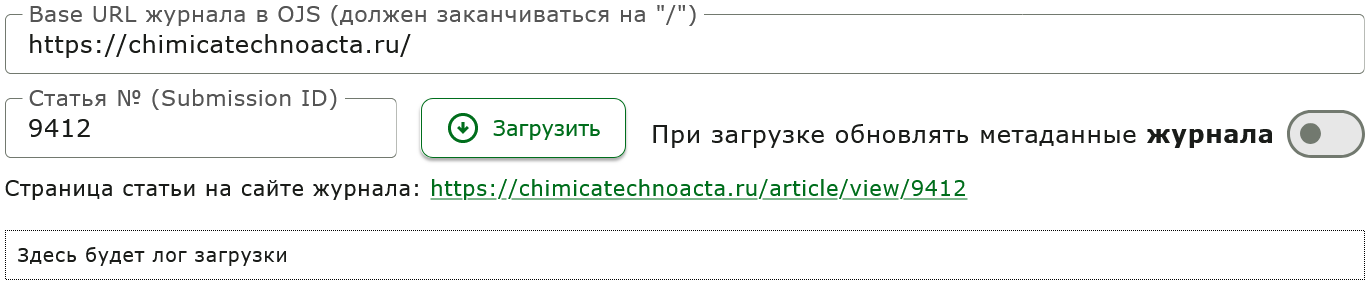
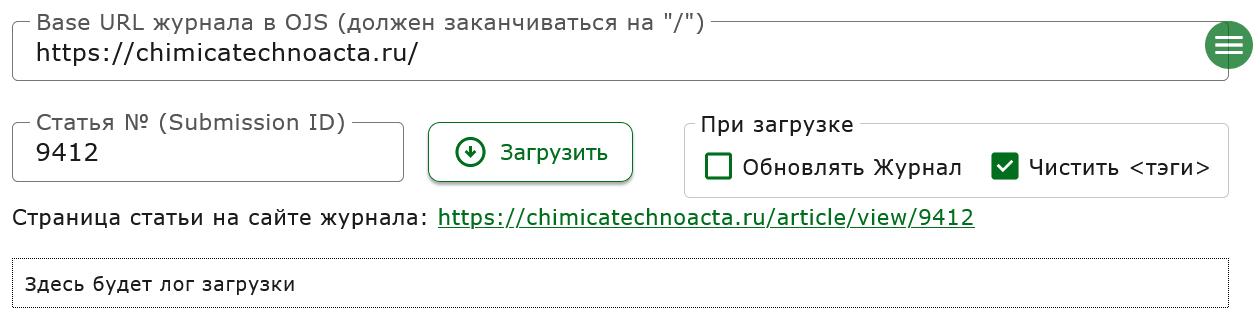
update help

diff --git a/src/components/HelpForm.md b/src/components/HelpForm.md
@@ -4,33 +4,29 @@
 
 Два крупных раздела формы - сведения о журнале и о статье. Информация о журнале сохраняется в браузере, о статье - нет (теряется при перезагрузке страницы). Для сохранения промежуточных результатов в том же меню, где кнопка вызова этой справочной страницы, есть возможность скачать и загрузить обратно введенную информацию о журнале и статье одновременно в формате JATS XML. Пока полностью поддерживаются только файлы, сгенерированные этим приложением - JATS очень лояльный формат, и можно встретить самые... разнообразные варианты.
 
-Форма в целом почти повторяет ту, которая используется в ИС Метафора, с некоторыми OJS-специфичными оптимизациями. Звездочками в форме отмечены поля, которые отмечены в ИС Метафора и которые ее разработчики считают обязательными.
+Форма в целом почти повторяет ту, которая используется в ИС Метафора, с некоторыми OJS-специфичными оптимизациями. Единственное, что здесь сильно не так - аффилиации. Почему? Ужасно неудобно работать с раздельными аффилиациями в текстовых полях для каждого автора - легко наплодить дубликатов аффилиаций и сложно это потом разгребать.
+
+Звездочками в форме отмечены поля, которые отмечены в ИС Метафора и которые ее разработчики считают обязательными.
 
 Пустые поля в форме слегка подсвечиваются. Это сделано только чтобы было лучше видно, что еще не заполнено.
 
 #### На что обращать внимание
 
-Для оптимизации производительности обновление данных происходит не мгновенно при вводе каждой буквы, а при обновлении текстового поля целиком. Это происходит когда поле теряет фокус (например, по клику в любое место страницы вне поля), а в случае однострочных полей еще и по нажатию Enter. Например, если вы поменяли аффилиацию одному из авторов и хотите увидеть изменения в XML, нажмите Enter или кликните куда-то вне поля с аффилиацией, чтобы изменения подхватились.
+Для оптимизации производительности обновление данных происходит не мгновенно при вводе каждой буквы, а при обновлении текстового поля целиком. Это происходит когда поле теряет фокус (например, по клику в любое место страницы вне поля), а в случае однострочных полей еще и по нажатию Enter. Например, если вы поменяли аффилиацию одному из авторов и хотите увидеть изменения в XML или метаданных, нажмите Enter или кликните куда-то вне поля с аффилиацией, чтобы изменения подхватились.
 
-**Название и аннотация** в зависимости от того откуда загружены или скопированы могут содержать html-тэги. Автоматически они не убираются по разным причинам, в частности, чтобы вы видели, в каком виде у вас хранится информация. Вам их нужно убирать вручную, кликнув на соответствующую кнопку.
+**Название и аннотация** в зависимости от того откуда загружены или скопированы могут содержать html-тэги. Если они автоматически не убираются, вам их нужно убирать вручную, кликнув на соответствующую кнопку.
 
 **Аннотация** в большинстве случаев должна состоять из одного абзаца (с точки зрения компьютера - из одной длинной строки). Чтобы контролировать этот момент, под полем аннотации есть счетчик строк. Так же как и значение поля, он обновляется не мгновенно, а только когда поле теряет фокус.
 
 **Ключевые слова** в OJS некоторых версий разделяются точкой с запятой (если они *корректно* заполнены), поэтому и здесь тоже. Для любителей запятых есть кнопка для автозамены.
 
-**Аффилиации авторов** в OJS забиваются в одну строчку в вольном формате. Почти никто их нормально не заполняет. А для JATS нужно разделять аффилиации на отдельные в случае, если автор аффилирован с несколькими организациями. Поэтому нужно делать так:
-
-- если аффилиаций несколько, они должны разделяться точкой с запятой;
-- если используется два языка, количество аффилиаций и порядок в котором они перечислены должны быть идентичны;
-- если у нескольких авторов одна аффилиация, она должна быть идентично записана для всех. Так как приложение сравнивает строки на буквальное совпадение, с его точки зрения "`ФГАОУ ИГОГО Уральский университет`", "`Уральский федеральный университет`" и "`Уральский  Федеральный Университет.`" будут тремя разными аффилиациями. Это я к тому, что *в рамках одной статьи идентичные аффилиации разных авторов должны быть записаны абсолютно идентичным образом* (и в OJS тоже).
-
-Если этих условий не соблюдать, вы наплодите некорректных аффилиаций в метаданных.
+**Аффилиации авторов** в OJS забиваются в одну строчку в вольном формате. Почти никто их нормально не заполняет. А для JATS нужно разделять аффилиации на отдельные в случае, если автор аффилирован с несколькими организациями. Поэтому здесь список аффилиации заполняется отдельно, а потом эти аффилиации присваиваются авторам. Если аффилиации загружены расширением браузера с веб-страницы, **внимательно проверяйте** их, особенно на предмет дубликатов.
 
 **Кнопка** *Убрать email* сделана для анонимизации, а *Убрать ФИО (язык)* - из-за особенностей одноязычности имен авторов в OJS 2. Если, например, журнал двухъязычный, а имена, которые только на английском, заполнились и в русские, и в английские поля, нажав одну кнопку можно убрать "нерусские" русские ФИО.
 
 **Даты** записываются в формате ISO 8601, ГГГГ-ММ-ДД. Для преобразования их из более привычных ДД.ММ.ГГГГ есть кнопка. Если даты подхватились расширением браузера из OJS, **перепроверяйте все эти даты**, они не то, чем кажутся. В частности, *Дата получения публикации* заполняется из date submitted, а это внутренняя дата в которую submission был создан в OJS. Чему эта дата соответствует сильно зависит от особенности редакционного процесса в вашем журнале. Если, например, вы запускали за авторов статью (например, при переносе архива журнала в OJS с другой платформы), то дата в OJS не будет соответствовать фактической дате, когда авторы отправили статью.
 
-**Страницы** должны содержать одно значение либо два через дефис (*первая-последняя* страницы). Тире не допускается, и длинное тире тоже, и *с.* и *p.* здесь быть не должно. С точки зрения и OJS, и моей формы "c. 23—945" - неправильно заполненные страницы, правильно будет "23-945".
+**Страницы** должны содержать одно значение либо два через дефис (*первая-последняя* страницы). Тире не допускается, и длинное тире тоже, и *с.* и *p.* здесь быть не должно. С точки зрения и OJS, и этой формы "c. 23—945" - неправильно заполненные страницы, правильно будет "23-945".
 
 **Список литературы** тоже не должен содержать тэгов. В нем должны быть только источники - по одному на строчку (см. счетчик строк под текстовым полем).
 
@@ -44,6 +40,4 @@
 
 Под правой вкладкой в текстовом виде воспроизводятся метаданные статьи, сгенерированные обратно из сформированного XML, чтобы удобнее было проверять корректность введенных данных. Особенно внимательно смотреть надо на аффилиации.
 
-Даже если у вас исключительно одноязычный журнал, в метаданных для второго языка что-нибудь да будет. Во-первых, часть метаданных по определению не имеет языка (DOI, например), а во-вторых я пытался предусмотреть случаи в которых имена или аффилиации некоторых авторов заполнены только на одном языке. Если вам не нужен второй язык, просто не обращайте на это внимание.
-
-В моих формах практически нет семантической валидации. Отчасти это так потому что какая-то валидация есть в Метафоре, а отчасти - потому что если вы очень хотите забивать DOI и ключевые слова в аннотацию, а название статьи - в дату публикации, то я не буду вам мешать. Чистота ваших метаданных в первую очередь на вашей совести.
+В этой форме практически нет валидации. Отчасти это так потому что какая-то валидация есть в Метафоре, а отчасти - потому что если вы очень хотите забивать DOI и ключевые слова в аннотацию, а название статьи - в дату публикации, то я не буду вам мешать. Чистота ваших метаданных в первую очередь на вашей совести.

diff --git a/src/components/HelpFetcher.md b/src/components/HelpFetcher.md
@@ -4,7 +4,7 @@
 
 - Подгружаете информацию - метаданные конкретной статьи - из OJS.
 - Исправляете и дополняете данные в текстовых полях формы.
-- Скачиваете готовый JATS XML (например, чтобы выложить на сайт).
+- Скачиваете готовый JATS XML из меню (например, чтобы выложить на сайт).
 - Здесь же отправляете JATS XML (как вариант, вместе с PDF) в Метафору через API.
 
 Последние два пункта можно поменять местами: сначала убедиться что JATS XML без ошибок отправляется в Метафору, а уже затем скачать его.
@@ -21,7 +21,7 @@
 
 ![загрузка из OJS](/img/fetch-controls.png)
 
-Тумблер *При загрузке обновлять метаданные журнала* делает именно это - подгружает данные в раздел Журнал формы. Но так как из OJS добывается не вся информация (например, нет данных об издателе) и не всегда так как нужно, тумблер по умолчанию выключен. Можете включить при загрузке первой статьи и посмотреть результат.
+Чекбокс *Обновлять Журнал* делает именно это - подгружает данные в раздел Журнал формы. Но так как из OJS добывается не вся информация (например, нет данных об издателе) и не всегда так как нужно, тумблер по умолчанию выключен. Можете включить при загрузке первой статьи и посмотреть результат.
 
 Это приложение пытается собрать метаданные с веб-страницы статьи буквально из того, что есть - из OJS API (при наличии, наиболее адекватный и надежный способ), мета-тэгов на веб-страницах и кода видимой части html веб-страницы. В связи с этим для наиболее полной и корректной загрузки метаданных для OJS всех версий рекомендуется в настройках журнала включить плагины **COinS Plugin**, **Dublin Core Indexing Plugin** и **Google Scholar Indexing Plugin**. Для OJS версий >=3.2 рекомендуется также **залогиниться** в систему с учетной записью с правами редактора для обеспечения доступа по OJS API.
 

diff --git a/src/components/HelpWebpage.md b/src/components/HelpWebpage.md
@@ -1,10 +1,10 @@
 Это веб-приложение для подготовки JATS XML метаданных научных публикаций на основании текста, введенного в форму. Основная задача - генерировать валидные [JATS XML v. 1.4](https://jats.nlm.nih.gov/archiving/tag-library/1.4/), пригодные для загрузки в [ИС Метафора](https://metafora.rcsi.science/). Приложение написано для современного [Firefox](https://www.firefox.com) но, скорее всего, не откажется работать и в других браузерах.
 
-Вы запустили приложение в режиме веб-страницы. Расширенные возможности (загрузка информации из OJS и отправка в ИС Метафора по API) доступны только в режиме расширения браузера. Веб-страница генерирует такой же файл JATS XML, как и расширение, но заполнять форму можно пока что только вручную.
+Вы запустили приложение в режиме веб-страницы. Расширенные возможности (загрузка информации из OJS и отправка в ИС Метафора по API) доступны только в режиме расширения браузера. Веб-страница генерирует такой же файл JATS XML, как и расширение, но заполнять форму можно пока что только вручную или из имеющегося JATS XML, сгенерированного этим приложением.
 
 Порядок действий с веб-страницей такой: 
 
 - заполняете форму, 
+- смотрите под формой метаданные, воспроизведенные из сгенерированного XML (или даже сам XML), 
 - проверяете правильность введенных данных, 
-- смотрите по диагонали сформированный под формой XML, 
-- и скачиваете его по кнопке в меню.
+- и скачиваете XML по кнопке в меню.

diff --git a/src/components/HelpMetafora.md b/src/components/HelpMetafora.md
@@ -8,4 +8,4 @@
 
 Для статьи, статус которой известен, по нажатию кнопок доступен ряд действий. Должно быть очевидно что они делают. Если кнопки неактивны, значит, это действие со статьей с таким статусом выполнить нельзя (например, нельзя удалить подписанную статью, или загрузить новый файл XML поверх существующего и не удаленного старого).
 
-По нажатию кнопки после того, как в ИС Метафора отправится запрос и будет получен ответ, результаты отображаются внизу под кнопками в виде короткой словесной расшифровки и полного ответа сервера Метафоры (ниже, с подсветкой синтаксиса). На него нужно обращать внимание если что-то пошло не так - например, XML не загрузился из-за ошибки в каком-либо из полей. Во многих случаях по диагностическому сообщению от сервера можно понять в чем именно проблема.
+По нажатию кнопки после того, как в ИС Метафора отправится запрос и будет получен ответ, результаты отображаются внизу под кнопками в виде короткой словесной расшифровки и полного ответа сервера Метафоры (ниже, с подсветкой синтаксиса). В первую очередь смотрите на короткую расшифровку. На полный ответ нужно обращать внимание только если что-то пошло не так - например, XML не загрузился из-за ошибки в каком-либо из полей. Во многих случаях по диагностическому сообщению от сервера можно понять в чем именно проблема.
